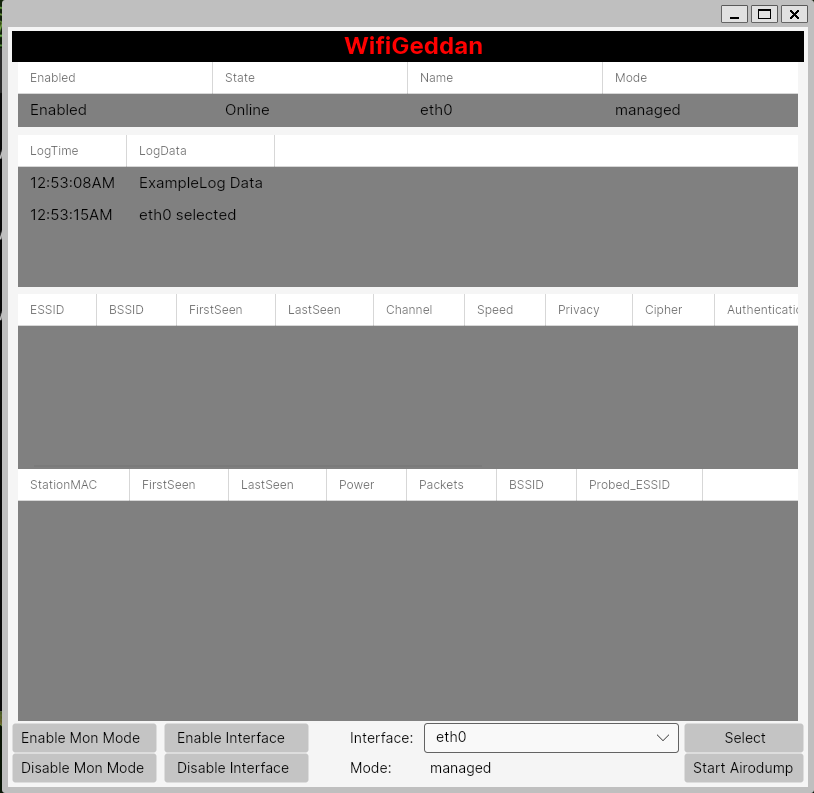
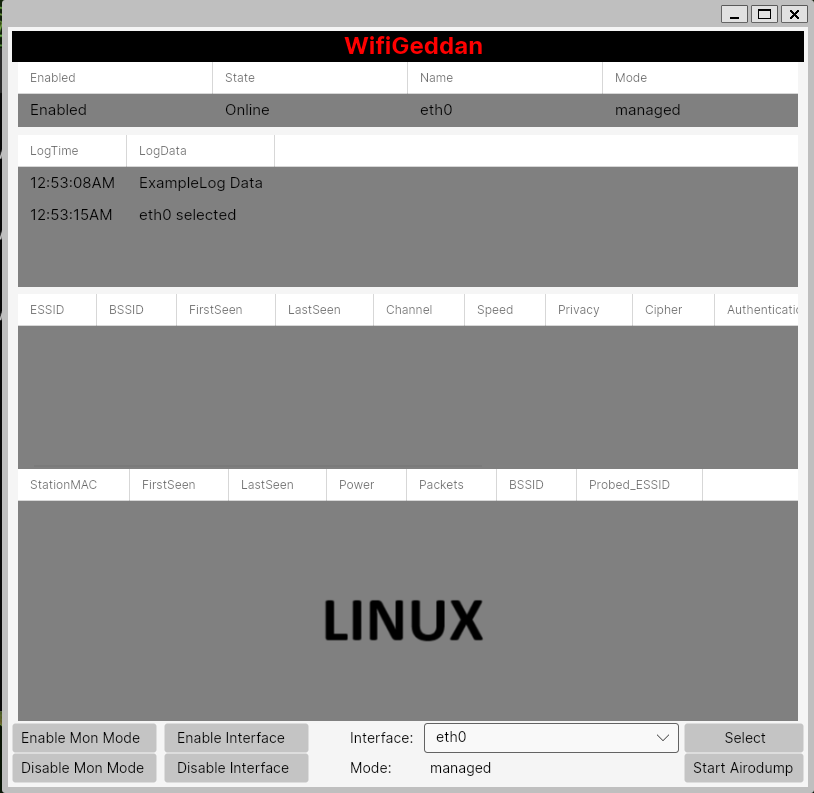
screenshots

Changed region(s): [[0.3993, 0.7566, 0.6143, 0.8172]]

diff --git a/README.md b/README.md
@@ -17,3 +17,8 @@ Cross-Platform AirCrack GUI made on NET6 using the Avalonia Libraries.
 - If you have the BSSID, Pixie Dust can be done on Windows/Linux
 - (just can't get airodump to work correctly in windows yet using CSharp)
   - Suppose I will need to write a wrapper? 
+
+<span>
+	<img align="center" src="https://raw.githubusercontent.com/whiterabb17/WifiGeddanAvalonia/master/Assets/windows.png">
+<img align="center" src="https://raw.githubusercontent.com/whiterabb17/WifiGeddanAvalonia/master/Assets/linux.png">
+</span>
